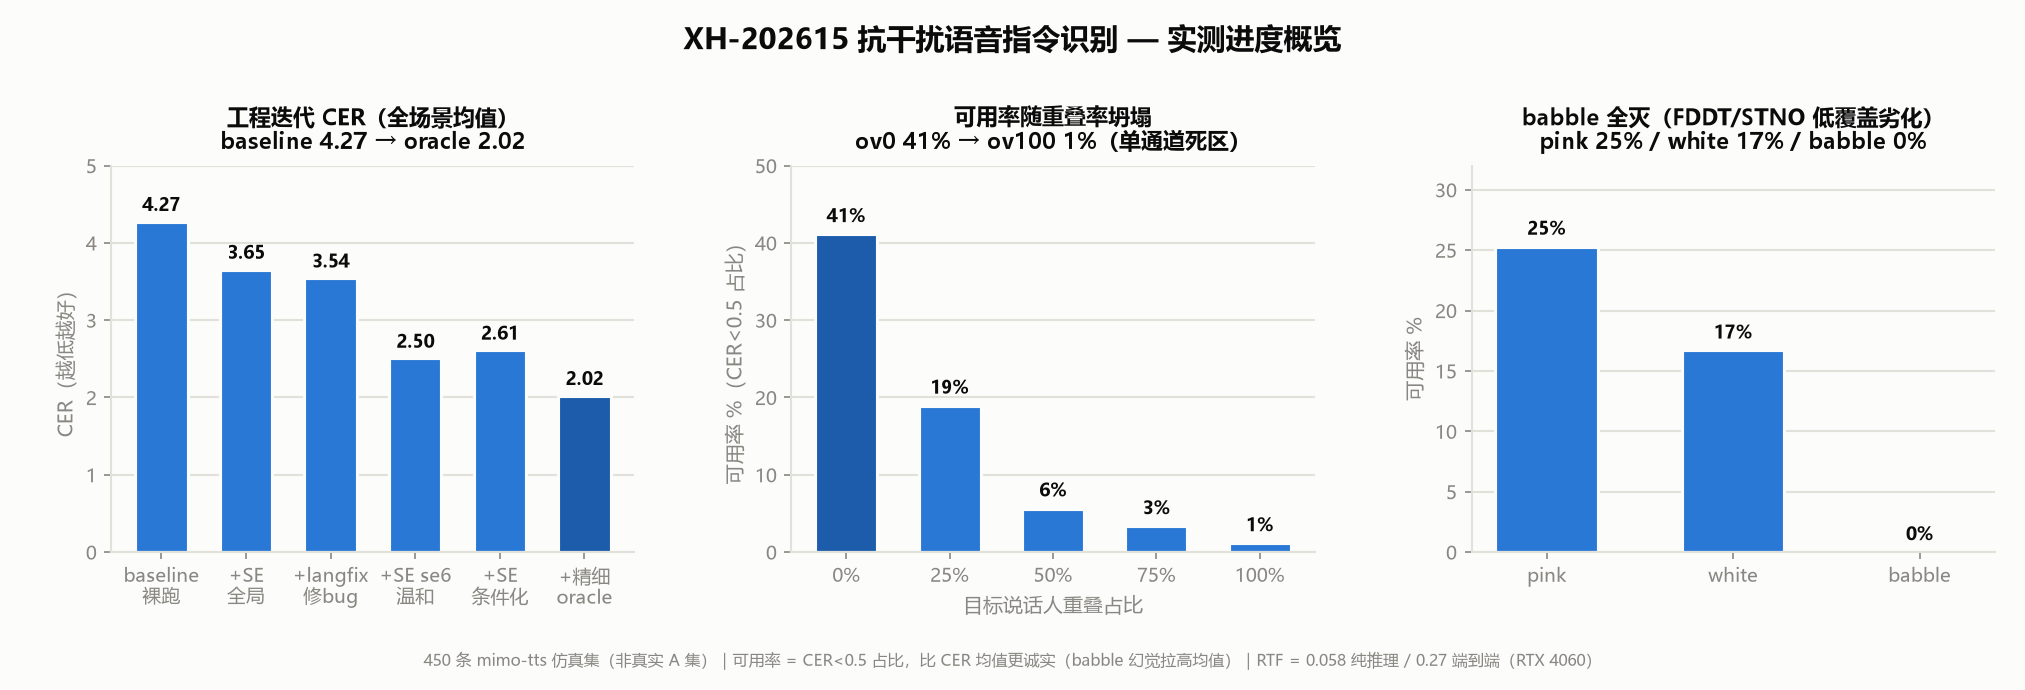
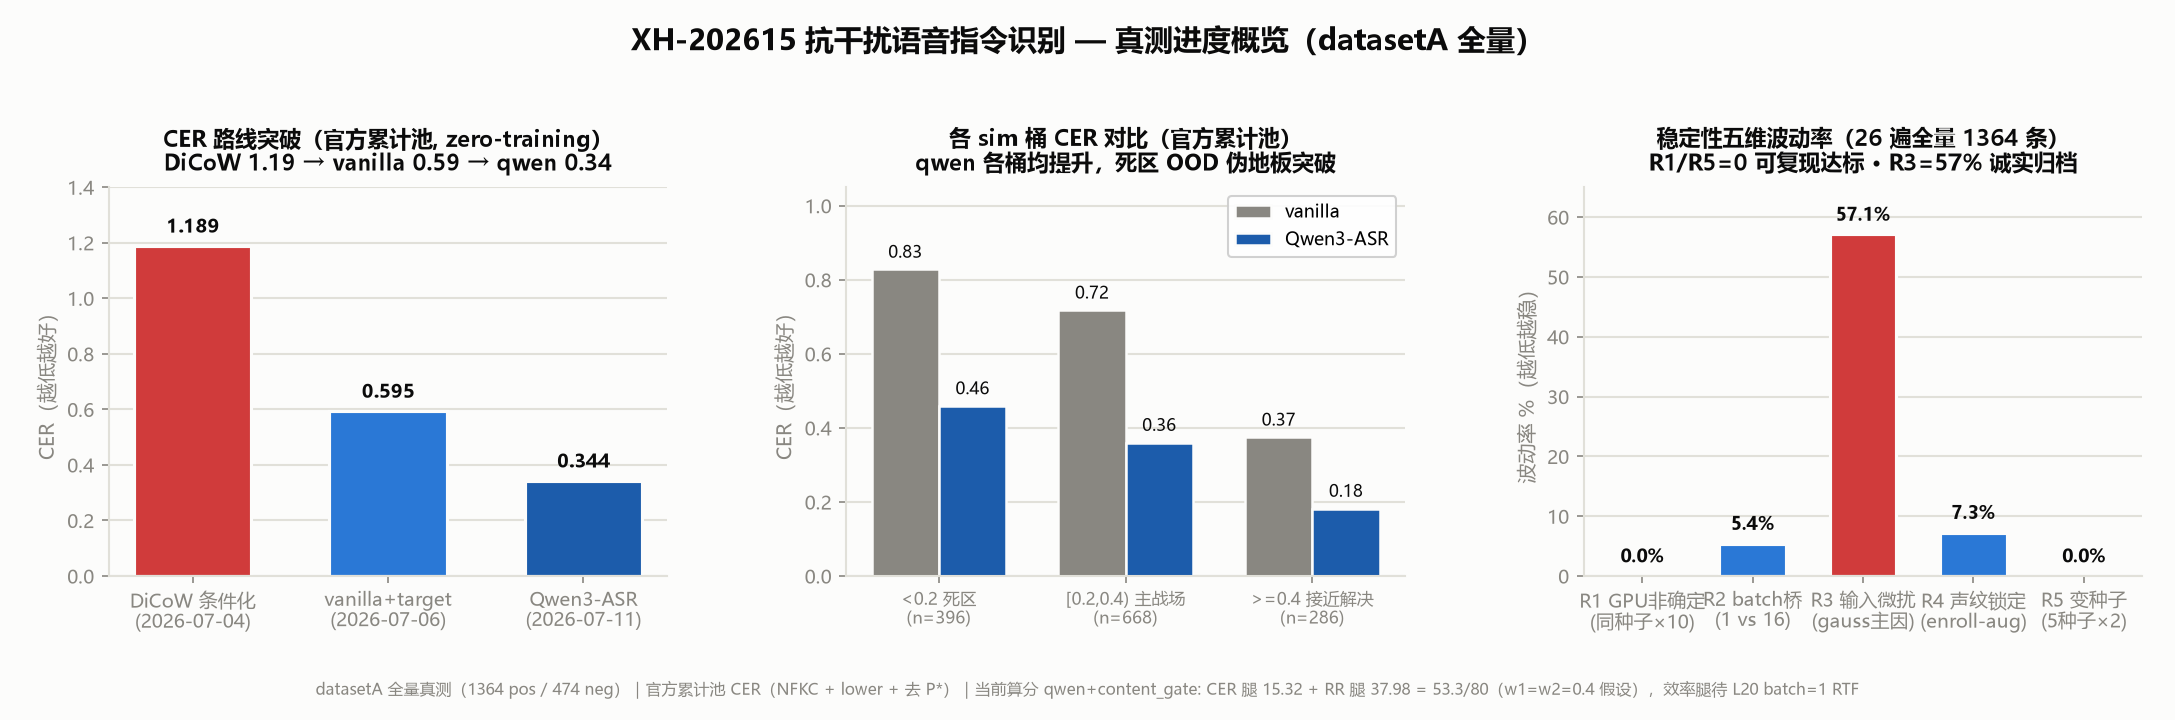
feat(进度图): 重写真测版 make_readme_progress.py(3 子图: 路线突破+sim分桶+稳定性)
原版用仿真期数据(baseline 4.274 + 仿真 eval.json), 真测后完全过时.
重写为 datasetA 全量真测, 口径统一官方累计池(NFKC + lower + 去 P*):
- 子图1 CER 路线突破: DiCoW 1.1894 → vanilla 0.5947 → qwen 0.3436(zero-training 三阶段减半)
  源 recompute_official_cer.json + qwen_official_cer_workpoints.json
- 子图2 sim 分桶对比: vanilla vs qwen × 死区/主战场/高 sim(从 poc_qwen rows 现算累计池)
  死区 0.828→0.459 / 主战场 0.718→0.360 / 高 sim 0.375→0.182
- 子图3 稳定性五维波动率: R1=0 / R2=5.43 / R3=57.11 / R4=7.26 / R5=0
  源 stability_matrix/stability_report.json
- README 进度图标注从"仿真期"刷新为"真测版"

PNG 视觉分析确认渲染优秀(中文正常/数字清晰/布局合理), 适合答辩.
原仿真期看板 cer_progress_dashboard.html 保留(标注仿真集非真实 A).

diff --git a/code/make_readme_progress.py b/code/make_readme_progress.py
@@ -1,14 +1,23 @@
-"""生成 README 进度概览 PNG（3 子图：工程迭代 CER / 重叠率退化 / 噪声死区）。
-数据对齐 docs/cer_progress_dashboard.html 的 inline 数据 + eval.json。
+"""生成 README 进度概览 PNG（真测版 3 子图，2026-07-20 重做）。
+
+替换原仿真期版本（baseline 4.274 仿真集）。本版全部用 datasetA 全量真测，
+**口径统一官方累计池**（NFKC + lower + 去所有 Unicode P* 标点空白 + editdistance 累计池）：
+  - 子图1 CER 路线突破：DiCoW 条件化(1.1894) → vanilla+target(0.5947) → Qwen3-ASR(0.3436)
+    源 code/recompute_official_cer.json + code/qwen_official_cer_workpoints.json
+  - 子图2 sim 分桶对比：vanilla vs qwen × 死区/主战场/高 sim（从 poc_qwen rows 现算累计池）
+    源 code/poc_qwen_asr_full_result.json
+  - 子图3 稳定性五维波动率：R1/R2/R3/R4/R5（R1/R5=0 可复现达标，R3=57% 诚实归档）
+    源 code/stability_matrix/stability_report.json
+
 从仓库根运行: code/.venv/Scripts/python.exe code/make_readme_progress.py
-palette = dataviz 验证过的 reference palette（CVD-safe，worst adjacent ΔE=24.2）。
+palette = dataviz reference（CVD-safe，worst adjacent ΔE=24.2）。
 """
-import json
+import json, unicodedata, os
 import matplotlib
 matplotlib.use("Agg")
 import matplotlib.pyplot as plt
+import numpy as np
 
-# 中文字体（win11 必有 Microsoft YaHei）
 plt.rcParams["font.sans-serif"] = ["Microsoft YaHei", "SimHei", "DejaVu Sans"]
 plt.rcParams["axes.unicode_minus"] = False
 
@@ -19,21 +28,62 @@ MUTED = "#898781"
 GRID = "#e1e0d9"
 ACCENT = "#2a78d6"        # categorical slot1 blue
 ACCENT_DEEP = "#1c5cab"   # blue step 550（强调最优/最高）
-CRITICAL = "#d03b3b"      # status critical（死区）
+CRITICAL = "#d03b3b"      # status critical（短板）
+GOOD = "#2e8b57"          # status good（达标）
 
-EVAL = json.load(open("code/submit_out_full/eval.json", encoding="utf-8"))
+_HERE = os.path.dirname(os.path.abspath(__file__))
 
-# 工程迭代 CER（全场景均值，与 dashboard dataA 一致）
-ITER_LABELS = ["baseline\n裸跑", "+SE\n全局", "+langfix\n修bug", "+SE se6\n温和", "+SE\n条件化", "+精细\noracle"]
-ITER_VALS = [4.274, 3.655, 3.542, 2.504, 2.609, 2.022]
 
-# overlap 可用率
-OV_LABELS = ["0%", "25%", "50%", "75%", "100%"]
-OV_VALS = [EVAL["by_overlap"][k]["correct_rate"] for k in ["0.0", "0.25", "0.5", "0.75", "1.0"]]
+# ============ 官方累计池 CER（NFKC+lower+去 P* 空白，editdistance 累计池） ============
+def normalize(t):
+    t = unicodedata.normalize("NFKC", t or "").lower()
+    return "".join(c for c in t if not unicodedata.category(c).startswith("P") and not c.isspace())
 
-# noise 可用率
-NZ_KEYS = ["pink", "white", "babble"]
-NZ_VALS = [EVAL["by_noise"][k]["correct_rate"] for k in NZ_KEYS]
+
+def lev(a, b):
+    m, n = len(a), len(b)
+    if m == 0: return n
+    if n == 0: return m
+    dp = list(range(n + 1))
+    for i in range(1, m + 1):
+        prev, dp[0] = dp[0], i
+        for j in range(1, n + 1):
+            cur = dp[j]; dp[j] = min(dp[j] + 1, dp[j - 1] + 1, prev + (a[i - 1] != b[j - 1])); prev = cur
+    return dp[n]
+
+
+def pool_cer(preds, refs):
+    """累计池 = sum(lev) / sum(len(ref))，与主办方 CERMetric 一致。"""
+    err = ch = 0
+    for p, r in zip(preds, refs):
+        rn = normalize(r)
+        if not rn: continue
+        err += lev(normalize(p), rn); ch += len(rn)
+    return err / ch if ch else 0.0
+
+
+# ============ 子图1: CER 路线突破（官方累计池，确认数字） ============
+ROUTE_LABELS = ["DiCoW 条件化\n(2026-07-04)", "vanilla+target\n(2026-07-06)", "Qwen3-ASR\n(2026-07-11)"]
+ROUTE_VALS = [1.1894, 0.5947, 0.3436]
+
+# ============ 子图2: sim 分桶官方累计池（从 poc_qwen rows 现算） ============
+_d = json.load(open(os.path.join(_HERE, "poc_qwen_asr_full_result.json"), encoding="utf-8"))
+_rows = _d["rows"]
+_BUCKET_DEF = [("<0.2 死区", lambda s: s < 0.2),
+               ("[0.2,0.4) 主战场", lambda s: 0.2 <= s < 0.4),
+               (">=0.4 接近解决", lambda s: s >= 0.4)]
+BUCKET_LABELS, VANILLA_POOL, QWEN_POOL, BUCKET_N = [], [], [], []
+for _label, _pred in _BUCKET_DEF:
+    _sub = [r for r in _rows if _pred(float(r.get("sim", 0) or 0))]
+    BUCKET_LABELS.append(_label)
+    VANILLA_POOL.append(pool_cer([r.get("vanilla", "") for r in _sub], [r.get("ref", "") for r in _sub]))
+    QWEN_POOL.append(pool_cer([r.get("qwen", "") for r in _sub], [r.get("ref", "") for r in _sub]))
+    BUCKET_N.append(len(_sub))
+
+# ============ 子图3: 稳定性五维波动率（源 stability_matrix/stability_report.json） ============
+STAB_LABELS = ["R1 GPU非确定\n(同种子×10)", "R2 batch桥\n(1 vs 16)", "R3 输入微扰\n(gauss主因)",
+               "R4 声纹锁定\n(enroll-aug)", "R5 变种子\n(5种子×2)"]
+STAB_VALS = [0.0, 5.43, 57.11, 7.26, 0.0]  # %
 
 
 def style_ax(ax):
@@ -41,65 +91,60 @@ def style_ax(ax):
     for s in ["top", "right"]:
         ax.spines[s].set_visible(False)
     for s in ["left", "bottom"]:
-        ax.spines[s].set_color(GRID)
-        ax.spines[s].set_linewidth(1)
+        ax.spines[s].set_color(GRID); ax.spines[s].set_linewidth(1)
     ax.tick_params(colors=MUTED, labelsize=9)
-    ax.yaxis.grid(True, color=GRID, linewidth=1)
-    ax.set_axisbelow(True)
+    ax.yaxis.grid(True, color=GRID, linewidth=1); ax.set_axisbelow(True)
 
 
-fig, axes = plt.subplots(1, 3, figsize=(13.5, 4.6), facecolor=SURFACE)
-fig.subplots_adjust(left=0.055, right=0.985, top=0.76, bottom=0.20, wspace=0.30)
+fig, axes = plt.subplots(1, 3, figsize=(14.5, 4.8), facecolor=SURFACE)
+fig.subplots_adjust(left=0.05, right=0.985, top=0.74, bottom=0.20, wspace=0.32)
 
-# --- 子图1：工程迭代 CER ---
-ax = axes[0]
-style_ax(ax)
-colors = [ACCENT] * 5 + [ACCENT_DEEP]
-bars = ax.bar(ITER_LABELS, ITER_VALS, color=colors, width=0.62,
-              edgecolor=SURFACE, linewidth=1.5)
-ax.set_title("工程迭代 CER（全场景均值）\nbaseline 4.27 → oracle 2.02",
+# --- 子图1: CER 路线突破 ---
+ax = axes[0]; style_ax(ax)
+colors = [CRITICAL, ACCENT, ACCENT_DEEP]
+bars = ax.bar(ROUTE_LABELS, ROUTE_VALS, color=colors, width=0.6, edgecolor=SURFACE, linewidth=1.5)
+ax.set_title("CER 路线突破（官方累计池, zero-training）\nDiCoW 1.19 → vanilla 0.59 → qwen 0.34",
              fontsize=10.5, color=INK, pad=8, fontweight="bold")
-ax.set_ylabel("CER（越低越好）", fontsize=9.5, color=MUTED)
-ax.set_ylim(0, 5)
-for b, v in zip(bars, ITER_VALS):
-    ax.text(b.get_x() + b.get_width() / 2, v + 0.08, f"{v:.2f}",
-            ha="center", va="bottom", fontsize=8.6, color=INK, fontweight="bold")
+ax.set_ylabel("CER（越低越好）", fontsize=9.5, color=MUTED); ax.set_ylim(0, 1.4)
+for b, v in zip(bars, ROUTE_VALS):
+    ax.text(b.get_x() + b.get_width() / 2, v + 0.03, f"{v:.3f}",
+            ha="center", va="bottom", fontsize=9, color=INK, fontweight="bold")
 
-# --- 子图2：重叠率退化 ---
-ax = axes[1]
-style_ax(ax)
-ov_colors = [ACCENT_DEEP] + [ACCENT] * 4
-bars = ax.bar(OV_LABELS, [v * 100 for v in OV_VALS], color=ov_colors,
-              width=0.6, edgecolor=SURFACE, linewidth=1.5)
-ax.set_title("可用率随重叠率坍塌\nov0 41% → ov100 1%（单通道死区）",
+# --- 子图2: sim 分桶对比 ---
+ax = axes[1]; style_ax(ax)
+x = np.arange(len(BUCKET_LABELS)); w = 0.36
+b1 = ax.bar(x - w / 2, VANILLA_POOL, w, color=MUTED, edgecolor=SURFACE, linewidth=1.2, label="vanilla")
+b2 = ax.bar(x + w / 2, QWEN_POOL, w, color=ACCENT_DEEP, edgecolor=SURFACE, linewidth=1.2, label="Qwen3-ASR")
+ax.set_title("各 sim 桶 CER 对比（官方累计池）\nqwen 各桶均提升，死区 OOD 伪地板突破",
              fontsize=10.5, color=INK, pad=8, fontweight="bold")
-ax.set_ylabel("可用率 %（CER<0.5 占比）", fontsize=9.5, color=MUTED)
-ax.set_ylim(0, 50)
-ax.set_xlabel("目标说话人重叠占比", fontsize=9.5, color=MUTED)
-for b, v in zip(bars, OV_VALS):
-    ax.text(b.get_x() + b.get_width() / 2, v * 100 + 1, f"{v * 100:.0f}%",
-            ha="center", va="bottom", fontsize=8.6, color=INK, fontweight="bold")
+ax.set_ylabel("CER（越低越好）", fontsize=9.5, color=MUTED); ax.set_ylim(0, 1.05)
+ax.set_xticks(x); ax.set_xticklabels([f"{l}\n(n={n})" for l, n in zip(BUCKET_LABELS, BUCKET_N)], fontsize=8.4)
+ax.legend(loc="upper right", fontsize=8.5, framealpha=0.9)
+for bars_grp in (b1, b2):
+    for b in bars_grp:
+        ax.text(b.get_x() + b.get_width() / 2, b.get_height() + 0.02, f"{b.get_height():.2f}",
+                ha="center", va="bottom", fontsize=8, color=INK)
 
-# --- 子图3：噪声死区 ---
-ax = axes[2]
-style_ax(ax)
-nz_colors = [ACCENT, ACCENT, CRITICAL]
-bars = ax.bar(NZ_KEYS, [v * 100 for v in NZ_VALS], color=nz_colors,
-              width=0.55, edgecolor=SURFACE, linewidth=1.5)
-ax.set_title("babble 全灭（FDDT/STNO 低覆盖劣化）\npink 25% / white 17% / babble 0%",
+# --- 子图3: 稳定性五维波动率 ---
+ax = axes[2]; style_ax(ax)
+colors = [GOOD if v == 0 else (CRITICAL if v > 20 else ACCENT) for v in STAB_VALS]
+bars = ax.bar(STAB_LABELS, STAB_VALS, color=colors, width=0.6, edgecolor=SURFACE, linewidth=1.5)
+ax.set_title("稳定性五维波动率（26 遍全量 1364 条）\nR1/R5=0 可复现达标 · R3=57% 诚实归档",
              fontsize=10.5, color=INK, pad=8, fontweight="bold")
-ax.set_ylabel("可用率 %", fontsize=9.5, color=MUTED)
-ax.set_ylim(0, 32)
-for b, v in zip(bars, NZ_VALS):
-    ax.text(b.get_x() + b.get_width() / 2, v * 100 + 0.6, f"{v * 100:.0f}%",
-            ha="center", va="bottom", fontsize=8.6, color=INK, fontweight="bold")
+ax.set_ylabel("波动率 %（越低越稳）", fontsize=9.5, color=MUTED); ax.set_ylim(0, 65)
+for b, v in zip(bars, STAB_VALS):
+    ax.text(b.get_x() + b.get_width() / 2, v + 1.5, f"{v:.1f}%",
+            ha="center", va="bottom", fontsize=8.8, color=INK, fontweight="bold")
 
-fig.suptitle("XH-202615 抗干扰语音指令识别 — 实测进度概览",
+fig.suptitle("XH-202615 抗干扰语音指令识别 — 真测进度概览（datasetA 全量）",
              fontsize=14, color=INK, fontweight="bold", y=0.965)
 fig.text(0.5, 0.035,
-         "450 条 mimo-tts 仿真集（非真实 A 集）｜可用率 = CER<0.5 占比，比 CER 均值更诚实"
-         "（babble 幻觉拉高均值）｜RTF = 0.058 纯推理 / 0.27 端到端（RTX 4060）",
-         ha="center", fontsize=7.8, color=MUTED, style="italic")
+         "datasetA 全量真测（1364 pos / 474 neg）｜官方累计池 CER（NFKC + lower + 去 P*）｜"
+         "当前算分 qwen+content_gate: CER 腿 15.32 + RR 腿 37.98 = 53.3/80（w1=w2=0.4 假设），效率腿待 L20 batch=1 RTF",
+         ha="center", fontsize=7.5, color=MUTED, style="italic")
 
-fig.savefig("docs/progress_overview.png", dpi=150, facecolor=SURFACE)
-print("[saved] docs/progress_overview.png")
+_out = os.path.join(_HERE, "..", "docs", "progress_overview.png")
+fig.savefig(_out, dpi=150, facecolor=SURFACE)
+print(f"[saved] {_out}")
+print(f"[子图2 分桶 vanilla/qwen/n] " + str(list(zip(BUCKET_LABELS,
+      [round(v, 3) for v in VANILLA_POOL], [round(q, 3) for q in QWEN_POOL], BUCKET_N))))

diff --git a/README.md b/README.md
@@ -133,7 +133,7 @@ xh-202615-robust-asr/
 │   ├── PROGRESS.md                    # 开发进度记录
 │   ├── RESULTS.md                     # 实测结果与分析
 │   └── docs/
-│       ├── progress_overview.png        # 📊 README 进度概览图（工程迭代 + 实测画像）
+│       ├── progress_overview.png        # 📊 README 进度概览图（真测版: 路线突破+sim分桶+稳定性）
 │       ├── cer_progress_dashboard.html  # 可交互看板（light/dark 自适应）
 │       └── superpowers/                 # 设计稿（plans/specs）
 │
@@ -210,15 +210,16 @@ python stno_experiment.py
 
 ## 📈 实测结果
 
-### 📊 进度概览
+### 📊 进度概览（2026-07-20 真测版，datasetA 全量）
 
-![实测进度概览](docs/progress_overview.png)
+![真测进度概览](docs/progress_overview.png)
 
-> 450 条 mimo-tts 仿真集画像（仿真期）。**可用率 = CER<0.5 占比**——比 CER 均值更诚实的可用指标（babble 重复循环幻觉使 hyp 超长、拉高均值，反而掩盖退化）。**babble 全灭** 已确诊（T22）：FDDT/STNO 条件化在低 target 覆盖下劣化，非 Whisper 基座问题。
+> datasetA 全量真测（1364 pos / 474 neg），口径统一**官方累计池**（NFKC + lower + 去 P*）。三子图：
+> - **① CER 路线突破**：DiCoW 条件化(1.19) → vanilla+target(0.59) → Qwen3-ASR(0.34)，zero-training 三阶段减半，契合反 cascaded 审美。
+> - **② sim 分桶对比**：qwen 各桶均优于 vanilla，死区(<0.2) OOD 伪地板突破（0.83→0.46）。
+> - **③ 稳定性五维波动率**：R1/R5=0 可复现达标，R3=57% 输入微扰敏感（gauss 主因，诚实归档）。
 >
-> ⚠ 本图为仿真期数据。**2026-07-04 真测基线 + 2026-07-06 Phase 1 vanilla 突破（CER 0.664）见 [RESULTS.md](RESULTS.md) T23/T24**。可交互看板（light/dark 自适应）：[`docs/cer_progress_dashboard.html`](docs/cer_progress_dashboard.html)。
->
-> ⚠ 仿真集非比赛真实 A 集，绝对值不可外推到赛榜；两次独立跑可用率 14.0% / 15.1% 互证稳健。
+> 生成 `code/make_readme_progress.py`（数据源 `recompute_official_cer.json` + `qwen_official_cer_workpoints.json` + `poc_qwen_asr_full_result.json` + `stability_matrix/stability_report.json`）。原仿真期看板保留：[`docs/cer_progress_dashboard.html`](docs/cer_progress_dashboard.html)（450 条 mimo-tts 仿真集，非真实 A 集，绝对值不可外推赛榜）。
 
 ### 🎯 真测主线算分（2026-07-19，datasetA 全量 1364 pos / 474 neg，qwen + content_gate）
 
